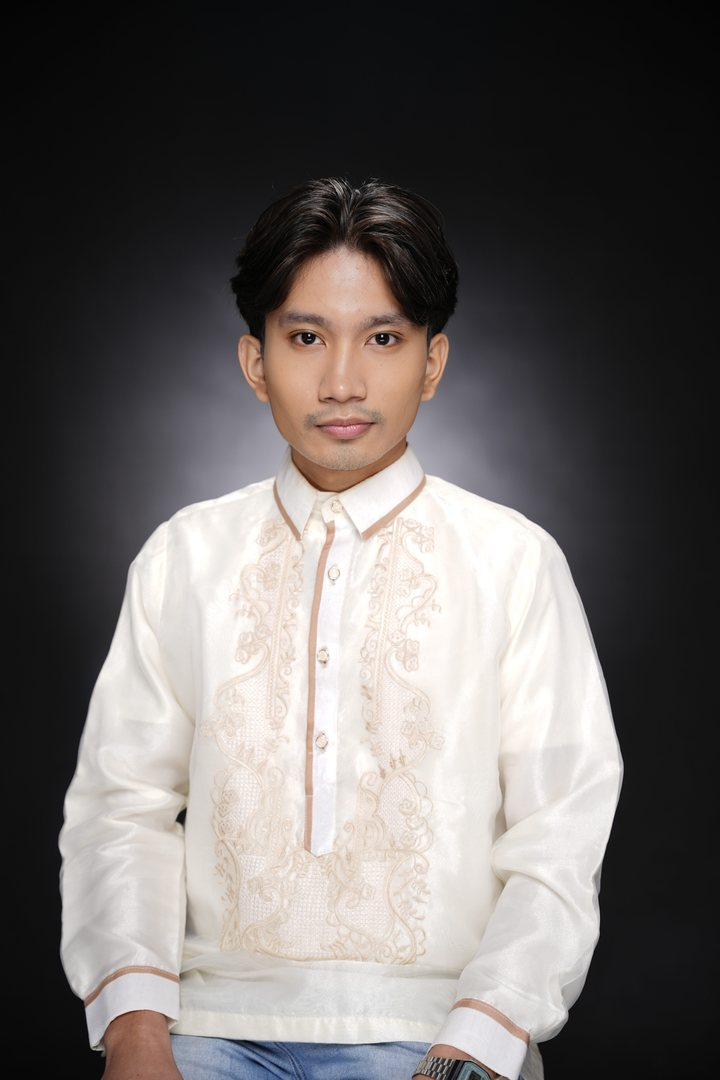
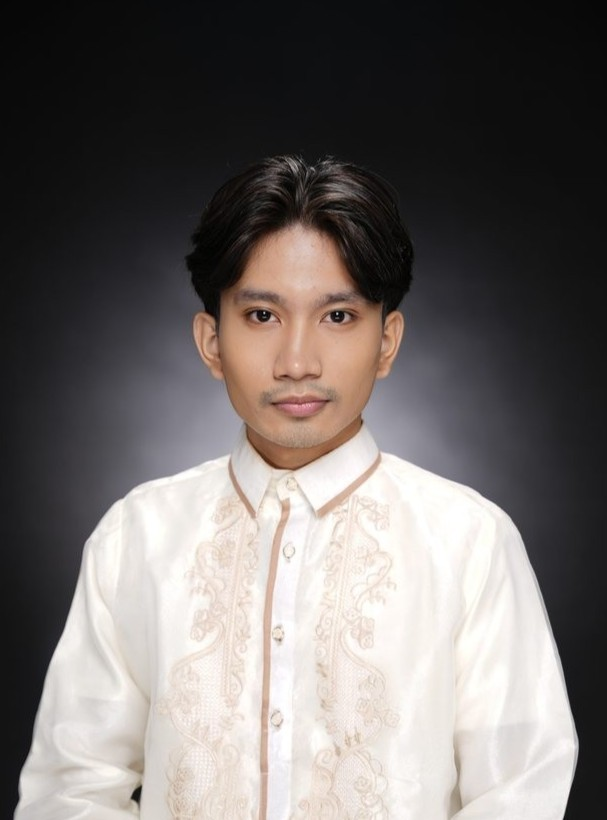
Final Update 2.0
1. Loading screen are now 20% faster
2. Sun is smaller in mobile version
3. Icons and images are now appropriately resized

diff --git a/public/scripts/main.js b/public/scripts/main.js
@@ -56,6 +56,8 @@ const loader = document.getElementById('loader');
 if (loader && root.classList.contains('seen')) loader.remove();
 else if (loader) {
   busy();
+  const K = 0.8;                            // loader speed: 0.8 = 20% faster (1 = original, lower = faster)
+  loader.style.setProperty('--k', K);       // the CSS transitions follow the same number
   const letters = [...loader.querySelectorAll('h2 span')];
   const sun = loader.querySelector('.sun');
   const ring = loader.querySelector('.orbit');
@@ -78,9 +80,9 @@ else if (loader) {
 
   // after the letters land: aeyan > [aeyan] > [ae], then the screen lifts
   const bracket = () => {
-    setTimeout(() => loader.classList.add('br-in'), 50);   // brackets appear
-    setTimeout(() => loader.classList.add('fold'), 900);   // "yan" folds away, [ae] slides to center
-    setTimeout(finish, 2050);                              // screen lifts
+    setTimeout(() => loader.classList.add('br-in'), 50 * K);   // brackets appear
+    setTimeout(() => loader.classList.add('fold'), 900 * K);   // "yan" folds away, [ae] slides to center
+    setTimeout(finish, 2050 * K);                              // screen lifts
   };
 
   if (matchMedia('(prefers-reduced-motion: reduce)').matches) {
@@ -97,17 +99,18 @@ else if (loader) {
     const t0 = performance.now();
 
     const frame = now => {
-      const t = now - t0;
+      const t = (now - t0) / K;
       const cx = innerWidth / 2;
       const cy = innerHeight / 2;
       const R = clamp(Math.min(innerWidth, innerHeight) * 0.24, 80, 170);
+      const sunK = clamp(R / 130, 0.5, 1);   // sun shrinks on small screens so it stays clear of the letters
       const spin = t * Math.PI * 2 / 2800;
       const out = inOut(seg(t, 1200 - FASTER, LAND_AT));
       const inn = seg(t, 0, 600);
 
       loader.style.setProperty('--R', R + 'px');
       sun.style.opacity = inn * (1 - out);
-      sun.style.transform = `scale(${(0.6 + 0.4 * (1 - (1 - inn) ** 3)) * (1 - 0.7 * out)})`;  // zooms OUT as it fades
+      sun.style.transform = `scale(${sunK * (0.6 + 0.4 * (1 - (1 - inn) ** 3)) * (1 - 0.7 * out)})`;  // zooms OUT as it fades
       ring.style.opacity = 0.55 * seg(t, 200, 800) * (1 - out);
 
       letters.forEach((el, i) => {

diff --git a/src/styles/style.css b/src/styles/style.css
@@ -738,7 +738,7 @@ footer {
   justify-items: center;
   background: var(--bg);
   overflow: hidden;
-  transition: transform 0.9s cubic-bezier(0.77, 0, 0.18, 1);
+  transition: transform calc(0.9s * var(--k, 1)) cubic-bezier(0.77, 0, 0.18, 1);
   animation: bye 0.9s 9s forwards;    /* failsafe: lifts by itself if the script never does */
 }
 
@@ -767,7 +767,7 @@ footer {
 }
 
 #loader h2 span.landed { opacity: 1; }
-#loader h2 span.x { transition: color 0.8s; }
+#loader h2 span.x { transition: color calc(0.8s * var(--k, 1)); }
 #loader h2 span.x.landed { color: var(--white); }
 
 /* ---- Brackets: appear after the letters land ---- */
@@ -778,7 +778,7 @@ footer {
   opacity: 0;
   color: var(--white);
   font-weight: 300;
-  transition: max-width 0.4s ease, opacity 0.4s ease;
+  transition: max-width calc(0.4s * var(--k, 1)) ease, opacity calc(0.4s * var(--k, 1)) ease;
 }
 
 #loader.br-in .br {
@@ -791,8 +791,8 @@ footer {
   max-width: 0;
   opacity: 0;
   letter-spacing: 0;
-  transition: max-width 0.8s cubic-bezier(0.7, 0, 0.3, 1), opacity 0.5s ease,
-              letter-spacing 0.8s, color 0.8s;
+  transition: max-width calc(0.8s * var(--k, 1)) cubic-bezier(0.7, 0, 0.3, 1), opacity calc(0.5s * var(--k, 1)) ease,
+              letter-spacing calc(0.8s * var(--k, 1)), color calc(0.8s * var(--k, 1));
 }
 
 /* ---- Dashed orbit ring ---- */
